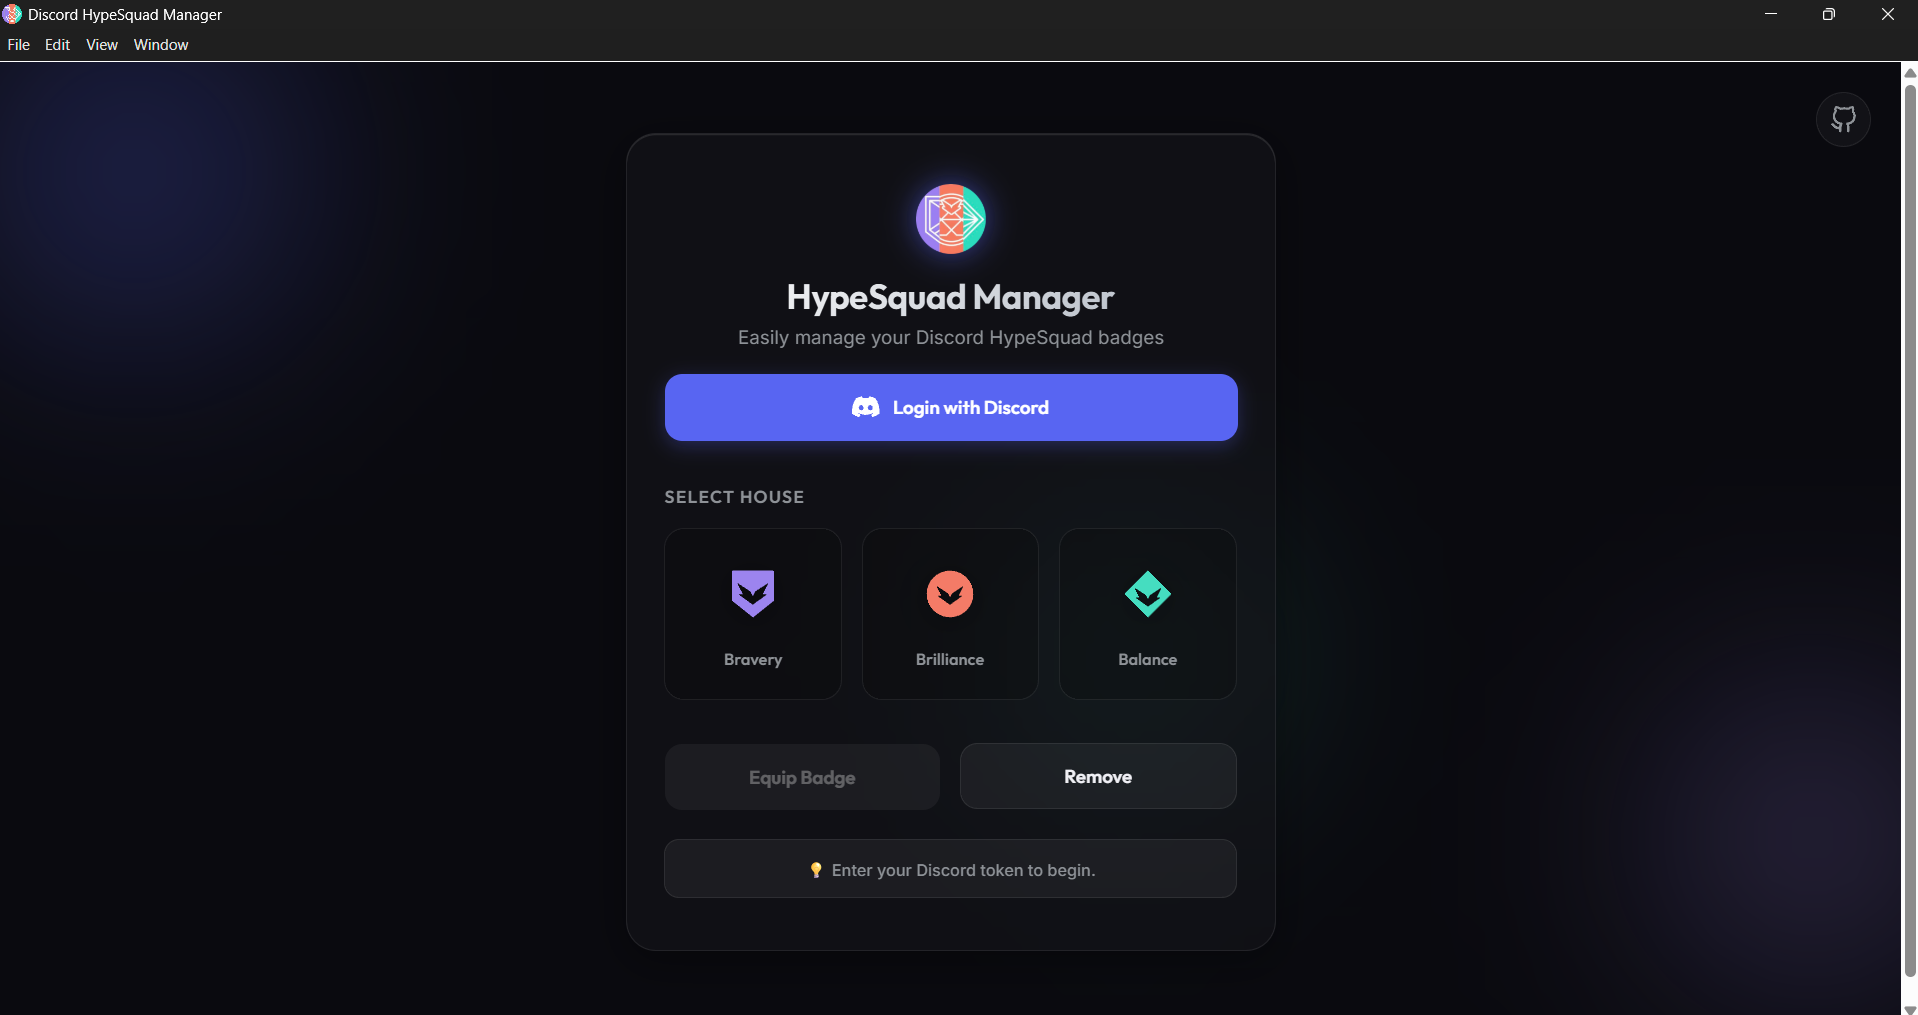
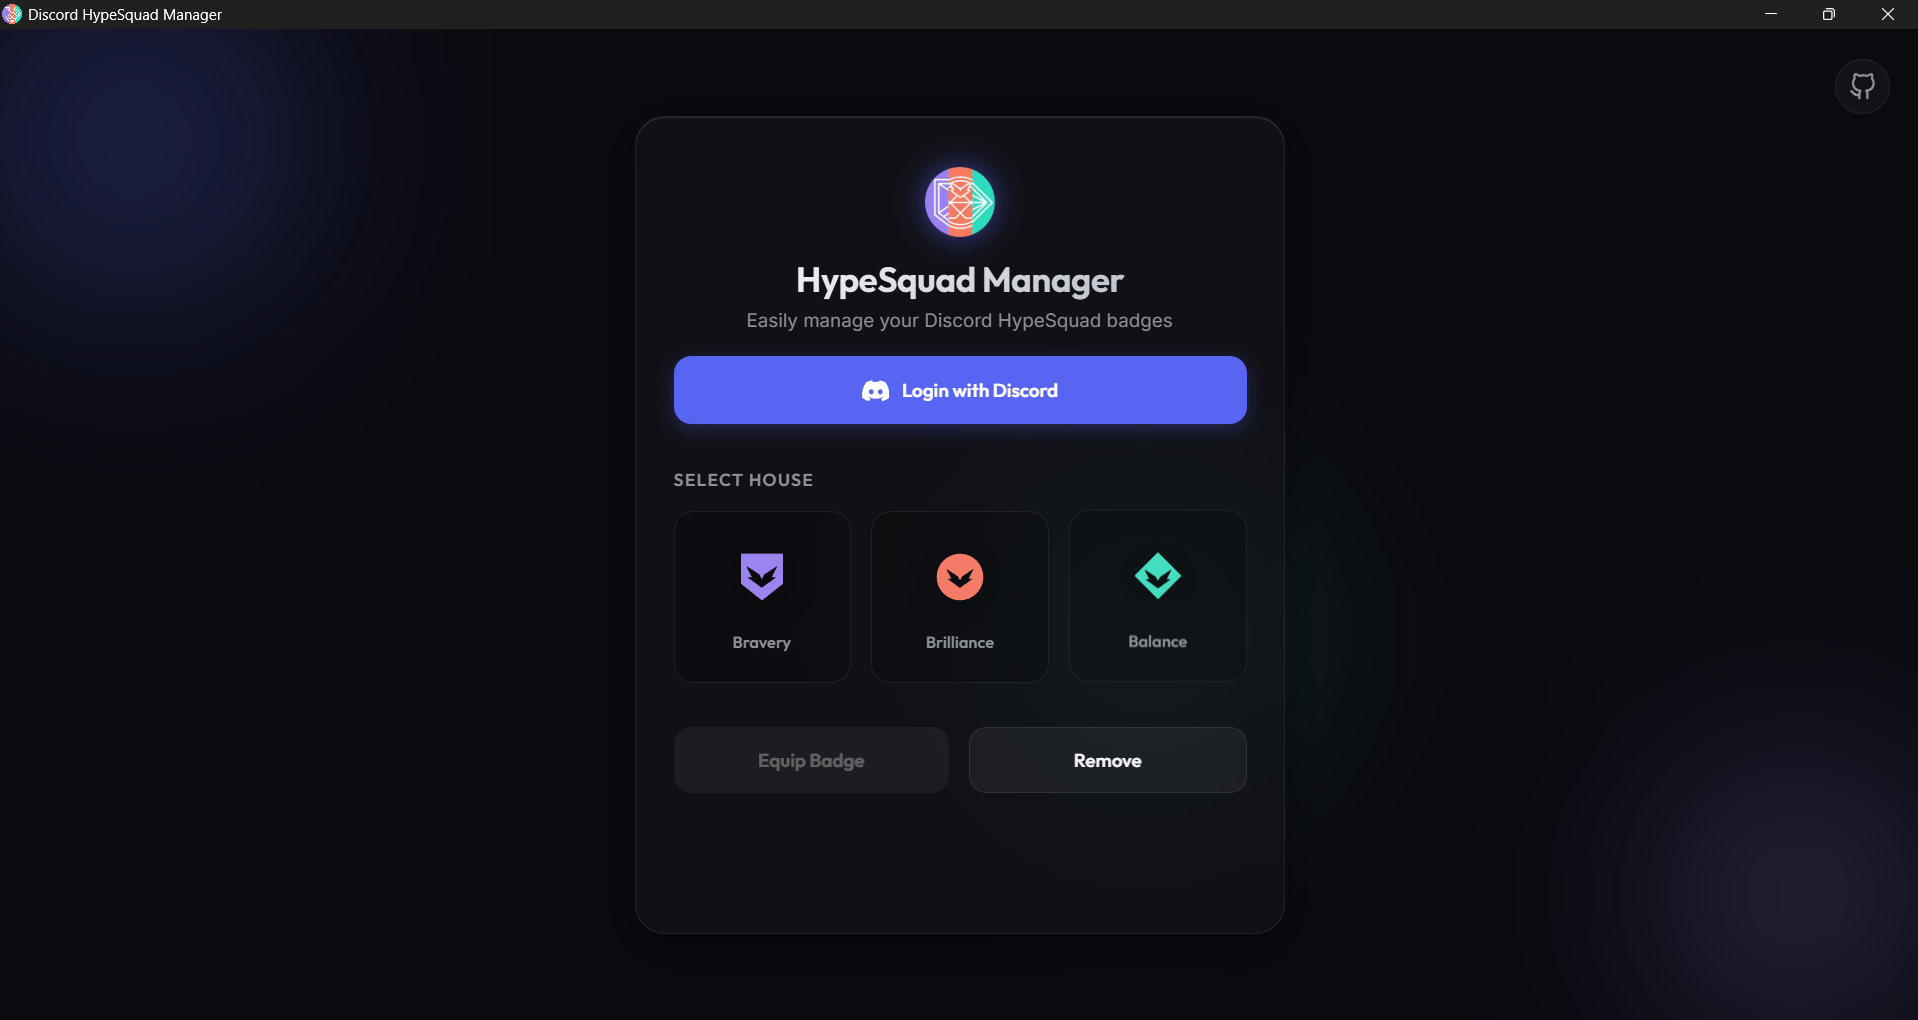
chore: update version to 1.0.5, fix profile card and badge selection overlap, remove electron menu bar

diff --git a/script.js b/script.js
@@ -186,8 +186,8 @@ class DiscordHypeSquadManager {
                     const profileSection = document.getElementById('profileSection');
                     profileSection.classList.remove('hidden');
                     gsap.fromTo(profileSection, 
-                        { opacity: 0, y: 20 }, 
-                        { opacity: 1, y: 0, duration: 0.5, ease: "back.out(1.5)" }
+                        { opacity: 0, y: 20, height: 0 }, 
+                        { opacity: 1, y: 0, height: 'auto', duration: 0.5, ease: "back.out(1.5)", clearProps: "height" }
                     );
                 }
             });
@@ -243,7 +243,7 @@ class DiscordHypeSquadManager {
                     loginSection.classList.remove('hidden');
                     gsap.fromTo(loginSection, 
                         { opacity: 0, height: 0 }, 
-                        { opacity: 1, height: 'auto', duration: 0.4, ease: "power2.out" }
+                        { opacity: 1, height: 'auto', duration: 0.4, ease: "power2.out", clearProps: "height" }
                     );
                 }
             });

diff --git a/main.js b/main.js
@@ -13,7 +13,8 @@ function createWindow() {
             nodeIntegration: false,
             contextIsolation: true
         },
-        icon: path.join(__dirname, 'images/logo.png')
+        icon: path.join(__dirname, 'images/logo.png'),
+        autoHideMenuBar: true
     });
 
     mainWindow.loadFile('index.html');
@@ -61,7 +62,8 @@ ipcMain.handle('login-discord', async () => {
             webPreferences: {
                 nodeIntegration: false,
                 contextIsolation: true
-            }
+            },
+            autoHideMenuBar: true
         });
 
         const filter = {
@@ -87,7 +89,9 @@ ipcMain.handle('login-discord', async () => {
             callback({ requestHeaders: details.requestHeaders });
         });
 
-        loginWindow.loadURL('https://discord.com/login');
+        loginWindow.loadURL('https://discord.com/login', {
+            userAgent: 'Mozilla/5.0 (Windows NT 10.0; Win64; x64) AppleWebKit/537.36 (KHTML, like Gecko) Chrome/120.0.0.0 Safari/537.36'
+        });
 
         loginWindow.on('closed', () => {
             loginWindow = null;

diff --git a/index.html b/index.html
@@ -65,7 +65,7 @@
 <body>
     <!-- Top Right Actions -->
     <div class="top-actions">
-        <a href="https://github.com/efekrbas/discord-hypesquad-manager/releases/tag/v1.0.4" target="_blank" class="download-app-btn" title="Download Desktop App">
+        <a href="https://github.com/efekrbas/discord-hypesquad-manager/releases/tag/v1.0.5" target="_blank" class="download-app-btn" title="Download Desktop App">
             <svg viewBox="0 0 24 24" width="18" height="18" stroke="currentColor" stroke-width="2" fill="none" stroke-linecap="round" stroke-linejoin="round">
                 <path d="M21 15v4a2 2 0 0 1-2 2H5a2 2 0 0 1-2-2v-4"></path>
                 <polyline points="7 10 12 15 17 10"></polyline>

diff --git a/style.css b/style.css
@@ -48,6 +48,7 @@ body {
     padding: 20px;
     box-sizing: border-box;
     position: relative;
+    overflow: hidden;
 }
 
 /* Background Orbs */

diff --git a/README.md b/README.md
@@ -44,8 +44,8 @@ You can use this application in two ways: **Web Browser** or **Desktop App**.
 ### Method 2: Desktop Application (Windows) - *Recommended*
 With the Desktop app, you don't need to manually find your token! You can simply click **"Login with Discord"**.
 
-1. Go to the **[Latest Release](https://github.com/efekrbas/discord-hypesquad-manager/releases/tag/v1.0.4)** page of this repository.
-2. Download **`Discord HypeSquad Manager Setup v1.0.4.exe`** to install the app on your PC.
+1. Go to the **[Latest Release](https://github.com/efekrbas/discord-hypesquad-manager/releases/tag/v1.0.5)** page of this repository.
+2. Download **`Discord.HypeSquad.Manager.Setup.1.0.5.exe`** to install the app on your PC.
 3. Launch the application and click **Login with Discord**.
 
 ## ⚠ Disclaimer
